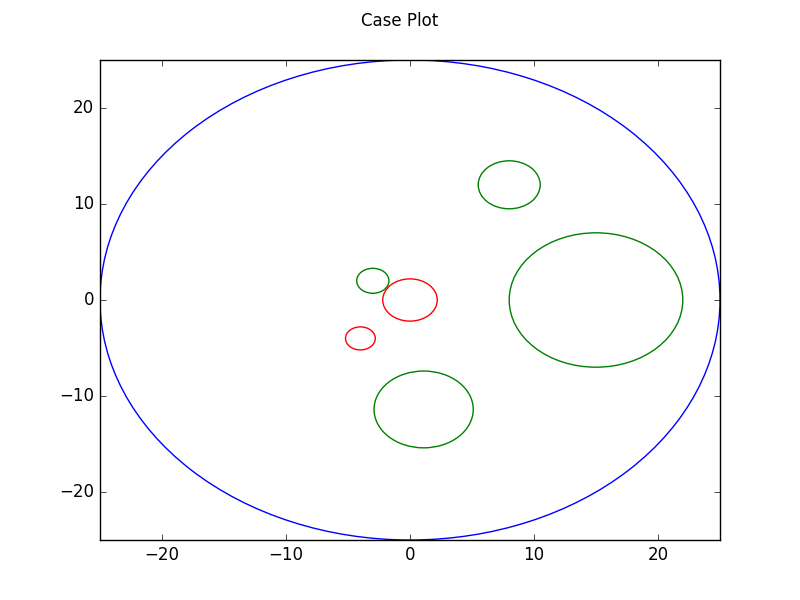
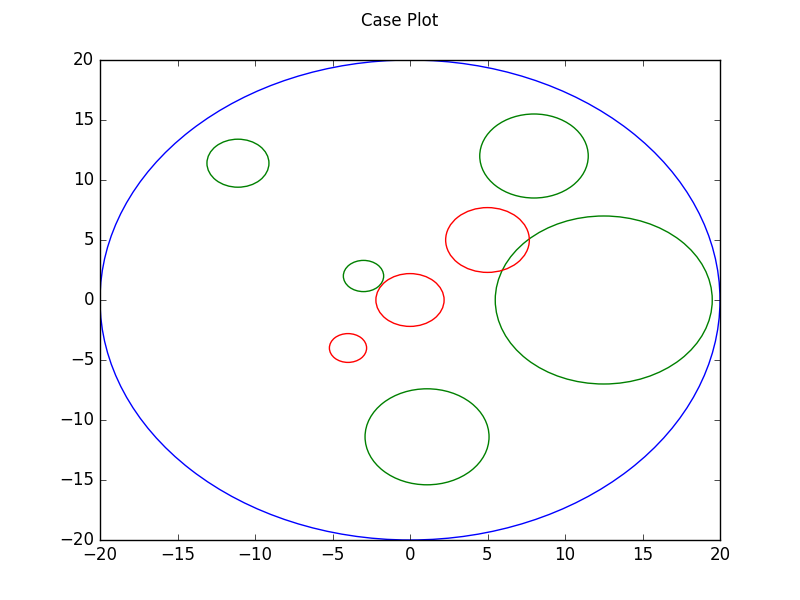
Separated the test from the source file and added some documentation stuff for doxygen and maybe for sphinx

diff --git a/casecreator.py b/casecreator.py
@@ -47,8 +47,8 @@ class voxelbeamletpair:
     def distToBeamC(self, xBeamC, yBeamC):
         d = np.sqrt(np.sum((self.x - xBeamC )**2 + (self.y - yBeamC )**2))
         return(d)
-    ## Function to calculate distance from this point to isocenter
-    def distToIsoC(self):
+    ## Function to calculate distance from this point to isocenter (not used)
+    def distToIsoC(self, thiscase):
         d = np.sqrt(np.sum((self.x - thiscase.isoX)**2 + (self.y - thiscase.isoY)**2))
         return(d)
     ## This function finds whether a point lies INSIDE the line SEGMENT between the beamlet and the voxel or not.
@@ -58,7 +58,7 @@ class voxelbeamletpair:
             ininterior = True
         return(ininterior)
     ## Find the depth of this voxel inside the body
-    def depthBeamC(self, xBeamC, yBeamC):
+    def depthBeamC(self, xBeamC, yBeamC, R):
         ## To understand the methodology look at http://mathworld.wolfram.com/Circle-LineIntersection.html
         x2 = xBeamC
         y2 = yBeamC
@@ -69,10 +69,10 @@ class voxelbeamletpair:
         dr = np.sqrt(dx**2 + dy**2)
         D = x1 * y2 - x2 * y1
         ## There are two point of intersection
-        xinterp = (D * dy + np.sign(dy) * dx * np.sqrt(thiscase.R**2 * dr**2 - D**2))/(dr**2)
-        xinterm = (D * dy - np.sign(dy) * dx * np.sqrt(thiscase.R**2 * dr**2 - D**2))/(dr**2)
-        yinterp = (-D * dx + np.abs(dy) * np.sqrt(thiscase.R ** 2 * dr ** 2 - D ** 2)) / (dr ** 2)
-        yinterm = (-D * dx - np.abs(dy) * np.sqrt(thiscase.R ** 2 * dr ** 2 - D ** 2)) / (dr ** 2)
+        xinterp = (D * dy + np.sign(dy) * dx * np.sqrt(R**2 * dr**2 - D**2))/(dr**2)
+        xinterm = (D * dy - np.sign(dy) * dx * np.sqrt(R**2 * dr**2 - D**2))/(dr**2)
+        yinterp = (-D * dx + np.abs(dy) * np.sqrt(R ** 2 * dr ** 2 - D ** 2)) / (dr ** 2)
+        yinterm = (-D * dx - np.abs(dy) * np.sqrt(R ** 2 * dr ** 2 - D ** 2)) / (dr ** 2)
         ## Check which one of the intersection points lies in the segment. Only 1 coordinate necessary.
         if (self.isinterior(xinterp, xBeamC)):
             intX = xinterp
@@ -89,7 +89,8 @@ class voxelbeamletpair:
 class VOI:
     numVOIs = 0
     __metaclass__ = ABCMeta
-    def __init__(self, x = 0.0, y = 0.0, r = 0.0):
+    def __init__(self, thiscase, x = 0.0, y = 0.0, r = 0.0):
+        self.tc = thiscase
         ## X location of center
         self.xcenter = x
         ## Y location of ceter
@@ -105,8 +106,8 @@ class VOI:
     def isContained(self):
         isv = True
         ## Find radius from center of VOI to center of structure
-        distcenter = np.sqrt((self.xcenter - thiscase.isoX)**2 + (self.ycenter - thiscase.isoY)**2)
-        if distcenter + self.radius > thiscase.R:
+        distcenter = np.sqrt((self.xcenter - self.tc.isoX)**2 + (self.ycenter - self.tc.isoY)**2)
+        if distcenter + self.radius > self.tc.R:
             isv = False
         return (isv)
     ## This method takes a location in space and returns whether this location exists in this VOI or not
@@ -123,10 +124,10 @@ class VOI:
 
 class OAR(VOI):
     numOARS = 0
-    def __init__(self, x = 0.0, y = 0.0, r = 0.0):
+    def __init__(self, thiscase, x = 0.0, y = 0.0, r = 0.0):
         ## Boolean. Is this a target structure?
         self.isTarget = True
-        super(OAR, self).__init__(x, y, r)
+        super(OAR, self).__init__(thiscase, x, y, r)
         ## Assign an ID to each of the different OARs
         self.OARID = OAR.numOARS
         OAR.numOARS = OAR.numOARS + 1
@@ -135,10 +136,10 @@ class OAR(VOI):
 
 class TARGET(VOI):
     numTARGETS = 0
-    def __init__(self, x = 0.0, y = 0.0, r = 0.0):
+    def __init__(self, thiscase,  x = 0.0, y = 0.0, r = 0.0):
         ## Boolean. Is this a target structure?
         self.isTarget = False
-        super(TARGET, self).__init__(x, y, r)
+        super(TARGET, self).__init__(thiscase, x, y, r)
         ## Assign an ID to each of the different targets
         self.TARGETID = TARGET.numTARGETS
         TARGET.numTARGETS = TARGET.numTARGETS + 1
@@ -147,7 +148,8 @@ class TARGET(VOI):
 
 ## The next class defines a control point; in particular, the location of all beamlets
 class ControlPoint:
-    def __init__(self, ctrlAngle):
+    def __init__(self, ctrlAngle, thiscase):
+        self.tc = thiscase
         self.angleDegs = ctrlAngle
         self.angleRads = (2 * np.pi * self.angleDegs)/360
         rotMat = np.matrix([[np.cos(self.angleRads), -np.sin(self.angleRads)], [np.sin(self.angleRads), np.cos(self.angleRads)]])
@@ -158,7 +160,7 @@ class ControlPoint:
     ## Find normal distances to each of the beamlet array centers
     def findNDist(self, x, y):
         distances = []
-        for i in range(0, thiscase.N):
+        for i in range(0, self.tc.N):
             beamlet = (self.thisFan[0,i], self.thisFan[1,i])
             #print('i, beamlet, x, y: ', i, beamlet, x, y)
             #print('unit vector', self.UnitVector)
@@ -185,7 +187,7 @@ class voxel:
 
 ## This function calculates the total dose given a depth
 def calcDose(depth):
-    return(1/depth)
+    return(np.exp(-0.04 * depth))
 
 ## This function takes a list of numeric values as arguments and produces the list of D matrices
 ## The box has isocenter on position thiscase.x
@@ -201,9 +203,9 @@ def calcDose(depth):
 # Outputs:
 # listofD = List of D matrix objects
 # upper right corner is (X,Y), lower left corner is (-X, -Y)
-def createDosetoPoints(anglelist, numhozv, numverv, xgeoloc, ygeoloc, radius, OARS, TARGETS):
-    ## Generate 360 control points
-    cps = [ControlPoint(i) for i in anglelist]
+def createDosetoPoints(thiscase, anglelist, numhozv, numverv, xgeoloc, ygeoloc, radius, OARS, TARGETS):
+    ## Generate 360 control point
+    cps = [ControlPoint(i, thiscase) for i in anglelist]
     ## Create voxels
     voxelhoz = np.arange(-xgeoloc, xgeoloc, 2 * xgeoloc/numhozv) + xgeoloc/numhozv
     voxelvec = np.arange(-ygeoloc, ygeoloc, 2 * ygeoloc/numverv) + ygeoloc/numverv
@@ -228,10 +230,10 @@ def createDosetoPoints(anglelist, numhozv, numverv, xgeoloc, ygeoloc, radius, OA
                 bs = bsst[0]
                 for blet in bs:
                     vbpair = voxelbeamletpair(v)
-                    vbpair.depthBeamC(cp.thisFan[0, bs[0]], cp.thisFan[1, bs[0]])
+                    vbpair.depthBeamC(cp.thisFan[0, bs[0]], cp.thisFan[1, bs[0]], thiscase.R)
                     D[v.voxelID, bs[0]] = calcDose(vbpair.depth)
         Dlist.append(D)
-    return(Dlist)
+    return(Dlist, voxels)
 
 ## This function is here to find the beamlets associated with a particular voxel at a certain control point
 ## You should be able to change it in case the team requires a different function
@@ -240,7 +242,7 @@ def findvoxbeamlets(x, y, cp):
     return([(i, dists[i]) for i in range(0, len(dists)) if dists[i] < 0.6/2])
 
 ## Implementation part that should be separated later
-def plotstructure(OARlist, TARGETlist, xgeo, ygeo):
+def plotstructure(thiscase, OARlist, TARGETlist, xgeo, ygeo, voxels):
     ## This function plots the case to make sure that everything is understood
     numOARS = len(OARlist)
     numTARGETS = len(TARGETlist)
@@ -258,29 +260,3 @@ def plotstructure(OARlist, TARGETlist, xgeo, ygeo):
         fig.gca().add_artist(circle)
     fig.suptitle('Case Plot')
     fig.savefig('plotcase.png')
-
-bodyradius = 25.0
-thiscase = caseinfo(0.0, 0.0, bodyradius)
-## Create 3 OARs around the body
-OARlist = []
-OARlist.append(OAR(15.0, 0.0, 7.0))
-OARlist.append(OAR(8.0, 12.0, 2.5))
-OARlist.append(OAR(-3.0, 2.0, 1.3))
-OARlist.append(OAR(1.1, -11.4, 4.0))
-TARGETlist = []
-TARGETlist.append(TARGET(0.0, 0.0, 2.2))
-TARGETlist.append(TARGET(-4.0, -4.0, 1.2))
-
-## Initialize an instance. This is not necessary but it is good practice.
-xgeoloc = bodyradius
-ygeoloc = bodyradius
-plotstructure(OARlist, TARGETlist, xgeoloc, ygeoloc)
-numhozv = 20
-numverv = 20
-xgeoloc = bodyradius
-ygeoloc = bodyradius
-radius = bodyradius
-anglelist = [i * 360 / 51 for i in range(0, 51)]
-
-myDs = createDosetoPoints(anglelist, numhozv, numverv, xgeoloc, ygeoloc, radius, OARlist, TARGETlist)
-print(myDs)

diff --git a/tests/context.py b/tests/context.py
@@ -4,4 +4,32 @@ import sys
 import os
 sys.path.insert(0, os.path.abspath('..'))
 
-import sample
+from casecreator import *
+
+bodyradius = 20.0
+thiscase = caseinfo(0.0, 0.0, bodyradius)
+## Create 3 OARs around the body
+OARlist = []
+OARlist.append(OAR(thiscase, 12.5, 0.0, 7.0))
+OARlist.append(OAR(thiscase, 8.0, 12.0, 3.5))
+OARlist.append(OAR(thiscase, -3.0, 2.0, 1.3))
+OARlist.append(OAR(thiscase, 1.1, -11.4, 4.0))
+OARlist.append(OAR(thiscase, -11.1, 11.4, 2.0))
+TARGETlist = []
+TARGETlist.append(TARGET(thiscase, 0.0, 0.0, 2.2))
+TARGETlist.append(TARGET(thiscase, -4.0, -4.0, 1.2))
+TARGETlist.append(TARGET(thiscase, 5.0, 5.0, 2.7))
+
+## Initialize an instance. This is not necessary but it is good practice.
+xgeoloc = bodyradius
+ygeoloc = bodyradius
+numhozv = 20
+numverv = 20
+xgeoloc = bodyradius
+ygeoloc = bodyradius
+radius = bodyradius
+anglelist = [i * 360 / 51 for i in range(0, 51)]
+
+[myDs, voxels] = createDosetoPoints(thiscase, anglelist, numhozv, numverv, xgeoloc, ygeoloc, radius, OARlist, TARGETlist)
+plotstructure(thiscase, OARlist, TARGETlist, xgeoloc, ygeoloc, voxels)
+print(myDs)

diff --git a/docs/code.rst b/docs/code.rst
@@ -1,0 +1,5 @@
+Auto Generated Documentation
+============================
+
+.. automodule:: casecreator
+   :members:

diff --git a/docs/index.rst b/docs/index.rst
@@ -7,7 +7,7 @@ Contents:
 .. toctree::
    :maxdepth: 2
 
-
+   code
 
 Indices and tables
 ==================
